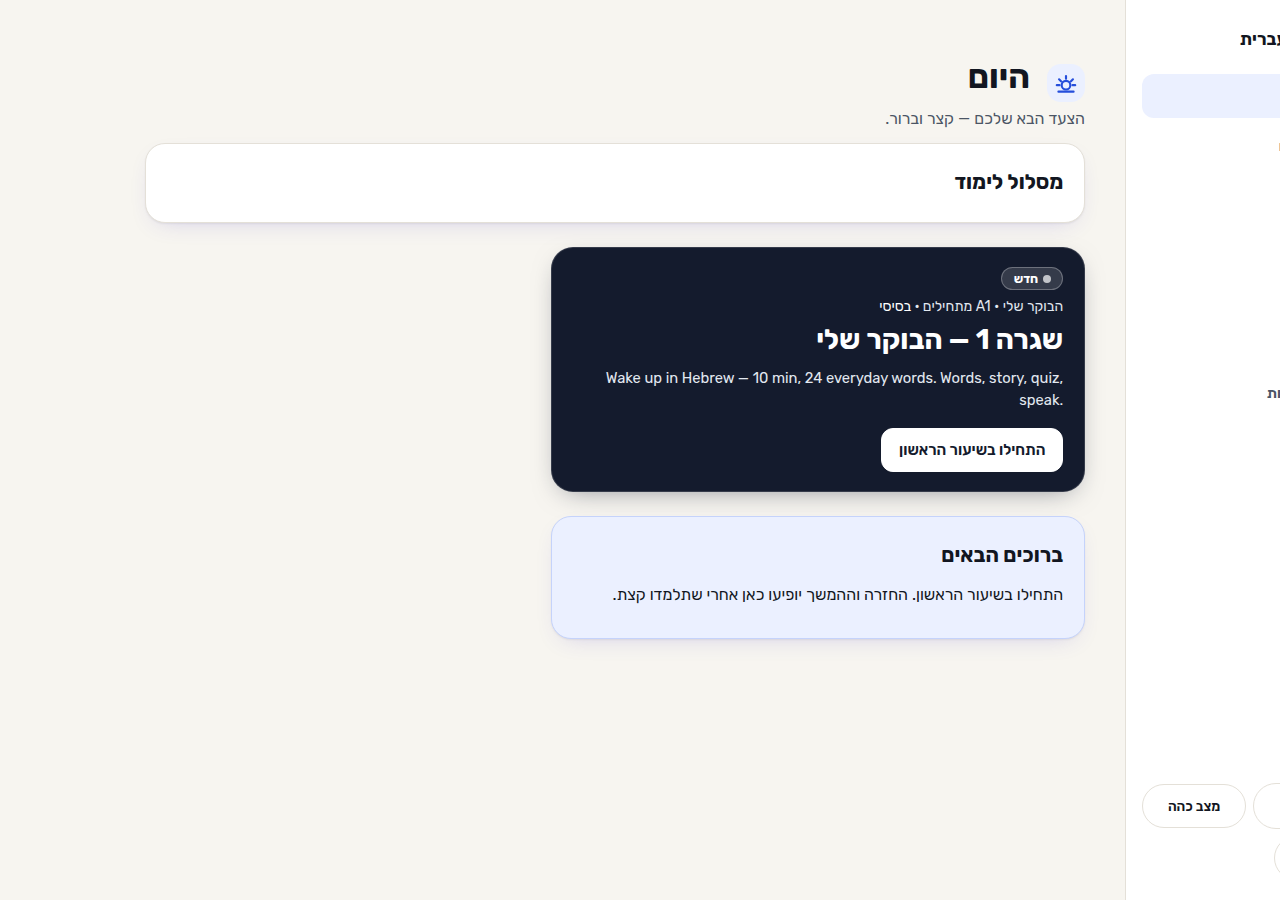
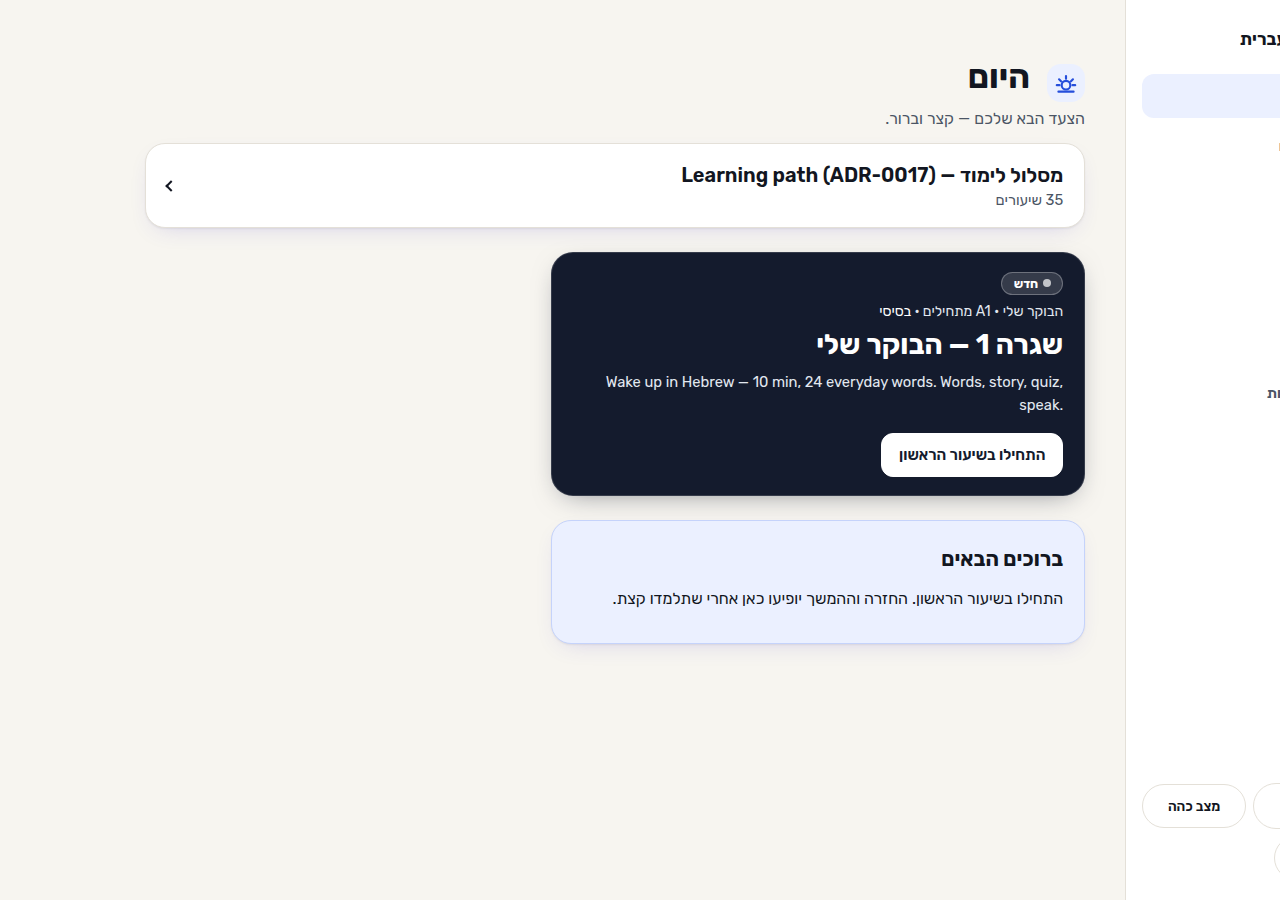
Show each learning path as a titled row instead of a clipped label.
The old bilingual label sat in an RTL card with overflow hidden, so the English text ran off the right edge and the Hebrew label read as an empty box. Zero plans now render nothing.

Changed region(s): [[0.4375, 0.1867, 0.8438, 0.56], [0.4375, 0.5911, 0.8438, 0.7156]]

diff --git a/shared/lessons-page.js b/shared/lessons-page.js
@@ -107,16 +107,47 @@
         return out;
     }
 
-    /** One id per plan, in catalog order. A non-slug id is skipped so it cannot become a URL. */
-    function distinctPlanIds(lessons) {
+    /**
+     * One entry per plan, in catalog order. A non-slug id is skipped so it cannot become a URL.
+     * Counts come from the rows already loaded. The title is the plan title when the catalog sent one.
+     */
+    function pathSummaries(lessons) {
         if (!Array.isArray(lessons)) return [];
-        var ids = [];
+        var order = [];
+        var byId = Object.create(null);
         for (var i = 0; i < lessons.length; i += 1) {
             var row = lessons[i];
             if (!row || typeof row.planId !== 'string' || !SLUG.test(row.planId)) continue;
-            if (ids.indexOf(row.planId) < 0) ids.push(row.planId);
+            var entry = byId[row.planId];
+            if (!entry) {
+                entry = { id: row.planId, title: '', lessons: 0, units: 0 };
+                byId[row.planId] = entry;
+                order.push(entry);
+                entry._units = [];
+            }
+            entry.lessons += 1;
+            if (!entry.title && typeof row.planTitle === 'string' && row.planTitle) entry.title = row.planTitle;
+            if (typeof row.unitId === 'string' && row.unitId && entry._units.indexOf(row.unitId) < 0) {
+                entry._units.push(row.unitId);
+                entry.units += 1;
+            }
         }
-        return ids;
+        return order;
+    }
+
+    function pathMeta(entry) {
+        if (!entry) return '';
+        var units = entry.units;
+        var lessons = entry.lessons;
+        if (typeof units === 'number' && units > 1) {
+            return '<p class="path-meta">' + bi(units + ' יחידות', units + ' units') + '</p>';
+        }
+        if (typeof lessons === 'number' && lessons > 0) {
+            var he = lessons === 1 ? 'שיעור אחד' : (lessons + ' שיעורים');
+            var en = lessons + (lessons === 1 ? ' lesson' : ' lessons');
+            return '<p class="path-meta">' + bi(he, en) + '</p>';
+        }
+        return '';
     }
 
     function renderPaths(planIds) {
@@ -124,13 +155,18 @@
         var seen = [];
         var cards = '';
         for (var i = 0; i < planIds.length; i += 1) {
-            var id = planIds[i];
+            var item = planIds[i];
+            var id = typeof item === 'string' ? item : (item && item.id);
             if (typeof id !== 'string' || !SLUG.test(id) || seen.indexOf(id) >= 0) continue;
             seen.push(id);
+            var title = item && typeof item.title === 'string' && item.title ? item.title : 'מסלול לימוד';
             cards += '<article class="lesson-card" data-learning-path="' + esc(id) + '">'
                 + '<a class="lesson-link" href="' + esc(pathHref(id)) + '">'
-                + '<h2><span class="ui-pair"><bdi class="ui-he" lang="he">מסלול לימוד</bdi>'
-                + '<span class="ui-en" lang="en" dir="ltr">Learning path</span></span></h2>'
+                + '<span class="path-copy">'
+                + '<h2 class="path-title"><bdi lang="he">' + esc(title) + '</bdi></h2>'
+                + pathMeta(typeof item === 'string' ? null : item)
+                + '</span>'
+                + '<span class="path-chevron" aria-hidden="true"></span>'
                 + '</a></article>';
         }
         if (!cards) return '';
@@ -352,7 +388,7 @@
                 });
                 return emptyCatalog();
             }
-            return { rows: planRowsOnly(lessons), planIds: distinctPlanIds(lessons) };
+            return { rows: planRowsOnly(lessons), planIds: pathSummaries(lessons) };
         }).catch(function (err) {
             logCatalog('plan catalog failed', err);
             return emptyCatalog();

diff --git a/shared/today-page.js b/shared/today-page.js
@@ -165,15 +165,43 @@
         return '/shared/plan/?id=' + encodeURIComponent(planId);
     }
 
-    function distinctPlanIds(lessons) {
+    function pathSummaries(lessons) {
         if (!Array.isArray(lessons)) return [];
-        var ids = [];
+        var order = [];
+        var byId = Object.create(null);
         for (var i = 0; i < lessons.length; i += 1) {
             var row = lessons[i];
             if (!row || typeof row.planId !== 'string' || !PLAN_SLUG.test(row.planId)) continue;
-            if (ids.indexOf(row.planId) < 0) ids.push(row.planId);
+            var entry = byId[row.planId];
+            if (!entry) {
+                entry = { id: row.planId, title: '', lessons: 0, units: 0 };
+                byId[row.planId] = entry;
+                order.push(entry);
+                entry._units = [];
+            }
+            entry.lessons += 1;
+            if (!entry.title && typeof row.planTitle === 'string' && row.planTitle) entry.title = row.planTitle;
+            if (typeof row.unitId === 'string' && row.unitId && entry._units.indexOf(row.unitId) < 0) {
+                entry._units.push(row.unitId);
+                entry.units += 1;
+            }
         }
-        return ids;
+        return order;
+    }
+
+    function pathMeta(entry) {
+        if (!entry) return '';
+        var units = entry.units;
+        var lessons = entry.lessons;
+        if (typeof units === 'number' && units > 1) {
+            return '<p class="path-meta">' + bi(units + ' יחידות', units + ' units') + '</p>';
+        }
+        if (typeof lessons === 'number' && lessons > 0) {
+            var he = lessons === 1 ? 'שיעור אחד' : (lessons + ' שיעורים');
+            var en = lessons + (lessons === 1 ? ' lesson' : ' lessons');
+            return '<p class="path-meta">' + bi(he, en) + '</p>';
+        }
+        return '';
     }
 
     function renderPathCards(planIds) {
@@ -181,13 +209,18 @@
         var seen = [];
         var html = '';
         for (var i = 0; i < planIds.length; i += 1) {
-            var id = planIds[i];
+            var item = planIds[i];
+            var id = typeof item === 'string' ? item : (item && item.id);
             if (typeof id !== 'string' || !PLAN_SLUG.test(id) || seen.indexOf(id) >= 0) continue;
             seen.push(id);
+            var title = item && typeof item.title === 'string' && item.title ? item.title : 'מסלול לימוד';
             html += '<article class="lesson-card today-card" data-today-card="path" data-learning-path="' + esc(id) + '">'
                 + '<a class="lesson-link" href="' + esc(pathHref(id)) + '">'
-                + '<h2><span class="ui-pair"><bdi class="ui-he" lang="he">מסלול לימוד</bdi>'
-                + '<span class="ui-en" lang="en" dir="ltr">Learning path</span></span></h2>'
+                + '<span class="path-copy">'
+                + '<h2 class="path-title"><bdi lang="he">' + esc(title) + '</bdi></h2>'
+                + pathMeta(typeof item === 'string' ? null : item)
+                + '</span>'
+                + '<span class="path-chevron" aria-hidden="true"></span>'
                 + '</a></article>';
         }
         return html;
@@ -998,7 +1031,7 @@
                     }
                     return { verbs: null, planIds: [] };
                 }
-                var planIds = distinctPlanIds(rows);
+                var planIds = pathSummaries(rows);
                 var lessons = rows.filter(function (row) { return row && row.recipe === 'verb-workshop'; }).length;
                 if (!lessons) return { verbs: null, planIds: planIds };
                 var VP = root.HebrewVerbPractice;

diff --git a/test/lessons-plan-rows.test.js b/test/lessons-plan-rows.test.js
@@ -129,6 +129,7 @@ describe('Lessons page: published plan lessons', () => {
         for (let i = 0; i < 35; i += 1) {
             lessons.push({
                 planId: planId,
+                planTitle: 'מסלול לימוד — Learning path',
                 unitId: 'u1-routine',
                 topic: 'Routine',
                 lessonId: i === 0 ? 'br-01-yesh-li-raayon' : ('br-' + String(i + 1).padStart(2, '0') + '-lesson'),
@@ -148,7 +149,27 @@ describe('Lessons page: published plan lessons', () => {
         assert.match(html, /href="\/shared\/plan\/\?id=bdf0aee7-7c57-4982-a351-78063ff567e9"/);
         assert.ok(html.indexOf('data-learning-path=') < html.indexOf('data-lesson-slug="shelf-0"'));
         assert.ok(html.indexOf('data-lesson-slug="shelf-0"') < html.indexOf('data-plan-id="'));
-        assert.match(html, /<bdi class="ui-he" lang="he">מסלול לימוד<\/bdi>/);
+        assert.match(html, /<bdi lang="he">מסלול לימוד — Learning path<\/bdi>/);
+        assert.match(html, /class="path-meta"/);
+        assert.match(html, /35 lessons/);
+        assert.match(html, /35 שיעורים/);
+        assert.match(html, /class="path-chevron"/);
+        assert.doesNotMatch(html, /class="ui-he"[^>]*>מסלול לימוד/);
+    });
+
+    it('renders no learning path on Lessons when there are zero plans', () => {
+        const page = load([], []);
+        const html = page.render({
+            state: 'ready',
+            filter: 'all',
+            rows: [],
+            planRows: [],
+            planIds: []
+        });
+        assert.equal(html.includes('data-learning-path'), false);
+        assert.equal(html.includes('path-title'), false);
+        assert.equal(html.includes('מסלול'), false);
+        assert.equal(html.includes('Learning path'), false);
     });
 
     it('keeps the learning path link when a level filter hides plan lessons', () => {

diff --git a/shared/worksheet.css b/shared/worksheet.css
@@ -8167,3 +8167,62 @@ section[data-block-type="conjugation-table"][data-mode="drill"][data-drill-owner
     .vp-sq { width: 0.5rem; height: 0.5rem; }
     .vp-map-group { gap: 2px; }
 }
+
+/* Learning path row. Shared .card / .lesson-card rules stay as they are.
+   English chrome is left-to-right, so this card follows that and text-align:start
+   sits on the left. Hebrew keeps the page direction, and the chevron flips with it. */
+html:not([data-ui-lang="he"]) [data-learning-path] {
+    direction: ltr;
+}
+[data-learning-path] {
+    text-align: start;
+    padding: 0;
+}
+.lessons-page article[data-learning-path],
+.today-page article[data-learning-path] {
+    padding: 0;
+}
+[data-learning-path] > .lesson-link {
+    display: flex;
+    align-items: center;
+    gap: 0.75rem;
+    width: 100%;
+    min-height: 44px;
+    box-sizing: border-box;
+    text-align: start;
+}
+[data-learning-path] > .lesson-link:focus-visible {
+    outline: var(--focus-width) solid var(--color-focus);
+    outline-offset: calc(-1 * var(--focus-width));
+}
+[data-learning-path] .path-copy {
+    display: flex;
+    flex-direction: column;
+    align-items: flex-start;
+    gap: 0.15rem;
+    min-width: 0;
+    flex: 1 1 auto;
+}
+[data-learning-path] .path-title {
+    margin: 0;
+    font-size: 1.25rem;
+    font-weight: 600;
+    line-height: 1.3;
+}
+[data-learning-path] .path-meta {
+    margin: 0;
+    color: var(--color-muted);
+    font-size: 0.92rem;
+}
+[data-learning-path] .path-chevron {
+    flex: 0 0 auto;
+    width: 0.5rem;
+    height: 0.5rem;
+    margin-inline-start: auto;
+    border-top: 2px solid currentColor;
+    border-right: 2px solid currentColor;
+    transform: rotate(45deg);
+}
+html[data-ui-lang="he"] [data-learning-path] .path-chevron {
+    transform: scaleX(-1) rotate(45deg);
+}

diff --git a/test/today-mix.test.js b/test/today-mix.test.js
@@ -108,12 +108,34 @@ describe('today mix (INIT-006/SPEC-015)', () => {
 
     it('puts one Learning path link per plan id ahead of the other cards', () => {
         const model = readyModel(null);
-        model.planIds = ['bdf0aee7-7c57-4982-a351-78063ff567e9', 'bdf0aee7-7c57-4982-a351-78063ff567e9'];
+        model.planIds = [
+            {
+                id: 'bdf0aee7-7c57-4982-a351-78063ff567e9',
+                title: 'מסלול לימוד — Learning path',
+                lessons: 35,
+                units: 1
+            },
+            {
+                id: 'bdf0aee7-7c57-4982-a351-78063ff567e9',
+                title: 'מסלול לימוד — Learning path',
+                lessons: 35,
+                units: 1
+            }
+        ];
         const html = Today.render(model);
         assert.equal((html.match(/data-learning-path=/g) || []).length, 1);
         assert.match(html, /href="\/shared\/plan\/\?id=bdf0aee7-7c57-4982-a351-78063ff567e9"/);
-        assert.match(html, /<bdi class="ui-he" lang="he">מסלול לימוד<\/bdi>/);
+        assert.match(html, /<bdi lang="he">מסלול לימוד — Learning path<\/bdi>/);
+        assert.match(html, /35 lessons/);
+        assert.match(html, /class="path-chevron"/);
         assert.ok(html.indexOf('data-learning-path=') < html.indexOf('id="today-review-card"'));
+    });
+
+    it('renders no learning path on Today when there are zero plans', () => {
+        const html = Today.render(readyModel(null));
+        assert.equal(html.includes('data-learning-path'), false);
+        assert.equal(html.includes('path-title'), false);
+        assert.equal(html.includes('Learning path'), false);
     });
 
     it('keeps only a same-origin worksheet mp3 as a clip', () => {

diff --git a/server/api/plan-routes.js b/server/api/plan-routes.js
@@ -354,6 +354,7 @@ function catalogFromSnapshots(user, rows) {
         }
         if (!mayReadPublished(user, snapshot)) continue;
         if (!snapshot || snapshot.id !== row.id) continue;
+        const planTitle = clipCatalogText(snapshot.title);
         const units = Array.isArray(snapshot.units) ? snapshot.units : [];
         for (const unit of units) {
             if (lessons.length >= CATALOG_LIMIT) break;
@@ -368,6 +369,7 @@ function catalogFromSnapshots(user, rows) {
                     : '';
                 lessons.push({
                     planId: row.id,
+                    planTitle: planTitle,
                     unitId: unitId,
                     topic: topic,
                     lessonId: lesson.id,

diff --git a/test/render-verse-letter.test.js b/test/render-verse-letter.test.js
@@ -330,6 +330,7 @@ describe('published catalog', () => {
         assert.equal(out.lessons.length, 1);
         assert.deepEqual(out.lessons[0], {
             planId: 'guides-shelf',
+            planTitle: 'Guides',
             unitId: 'verbs',
             topic: 'Verbs',
             lessonId: 'decoding',
